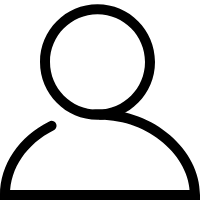
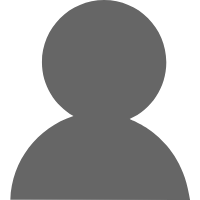
改了下图标

diff --git a/js/main/MainScreen.js b/js/main/MainScreen.js
@@ -44,6 +44,17 @@ const MainTabNavigator = TabNavigator({
             headerTitleStyle: {
                 color: 'white'
             },
+            /*tabBarIcon: ({tintColor, focused}) => (
+                focused ?
+                    <Image
+                        source={require('../news/img/news_fill.png')}
+                        style={[styles.icon]}
+                    /> :
+                    <Image
+                        source={require('../news/img/news.png')}
+                        style={[styles.icon, {tintColor: tintColor}]}
+                    />
+            ),*/
             tabBarIcon: ({tintColor}) => (
                 <Image
                     source={require('../news/img/news.png')}
@@ -67,6 +78,18 @@ const MainTabNavigator = TabNavigator({
                 color: 'white'
             },
 
+            /*tabBarIcon: ({tintColor, focused}) => (
+                focused ?
+                    <Image
+                        source={require('../cards/img/cards_fill.png')}
+                        style={[styles.icon]}
+                    /> :
+                    <Image
+                        source={require('../cards/img/cards.png')}
+                        style={[styles.icon, {tintColor: tintColor}]}
+                    />
+            ),*/
+
             tabBarIcon: ({tintColor}) => (
                 <Image
                     source={require('../cards/img/cards.png')}
@@ -88,11 +111,23 @@ const MainTabNavigator = TabNavigator({
                 color: 'white'
             },
 
+            /*tabBarIcon: ({tintColor, focused}) => (
+                focused ?
+                    <Image
+                        source={require('../my/img/my_fill.png')}
+                        style={[styles.icon]}
+                    /> :
+                    <Image
+                        source={require('../my/img/my.png')}
+                        style={[styles.icon, {tintColor: tintColor}]}
+                    />
+            ),*/
+
             tabBarIcon: ({tintColor}) => (
-                <Image
-                    source={require('../my/img/my.png')}
-                    style={[styles.icon, {tintColor: tintColor}]}
-                />
+                    <Image
+                        source={require('../my/img/my.png')}
+                        style={[styles.icon, {tintColor: tintColor}]}
+                    />
             ),
         },
     },

diff --git a/js/cards/CardsScreen.js b/js/cards/CardsScreen.js
@@ -69,7 +69,8 @@ export default class App extends Component<Props> {
     render() {
         return (
             <View style={styles.container}>
-                <Menu style={styles.container} config={CONFIG} onSelectMenu={this.onSelectMenu} navigation={this.props.navigation}/>
+                <Menu style={styles.container} config={CONFIG} onSelectMenu={this.onSelectMenu}
+                      navigation={this.props.navigation}/>
                 {/*<TouchableOpacity>
                     <Text
                         style={styles.text}>subindex:{this.state.subindex} title:{this.state.data.title}</Text>
